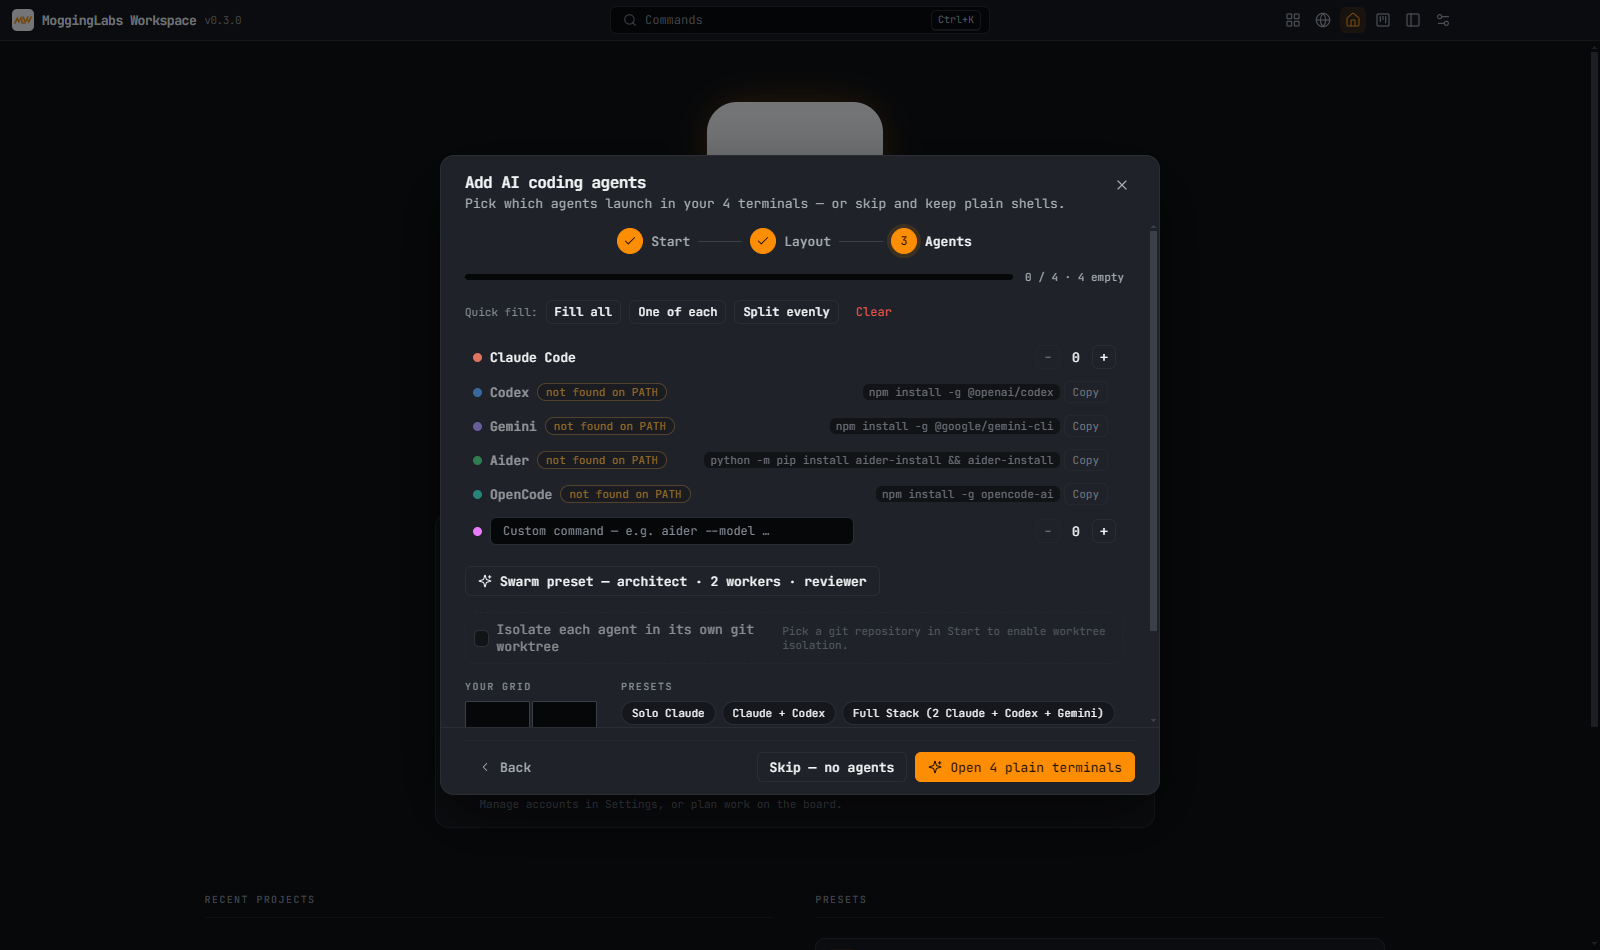
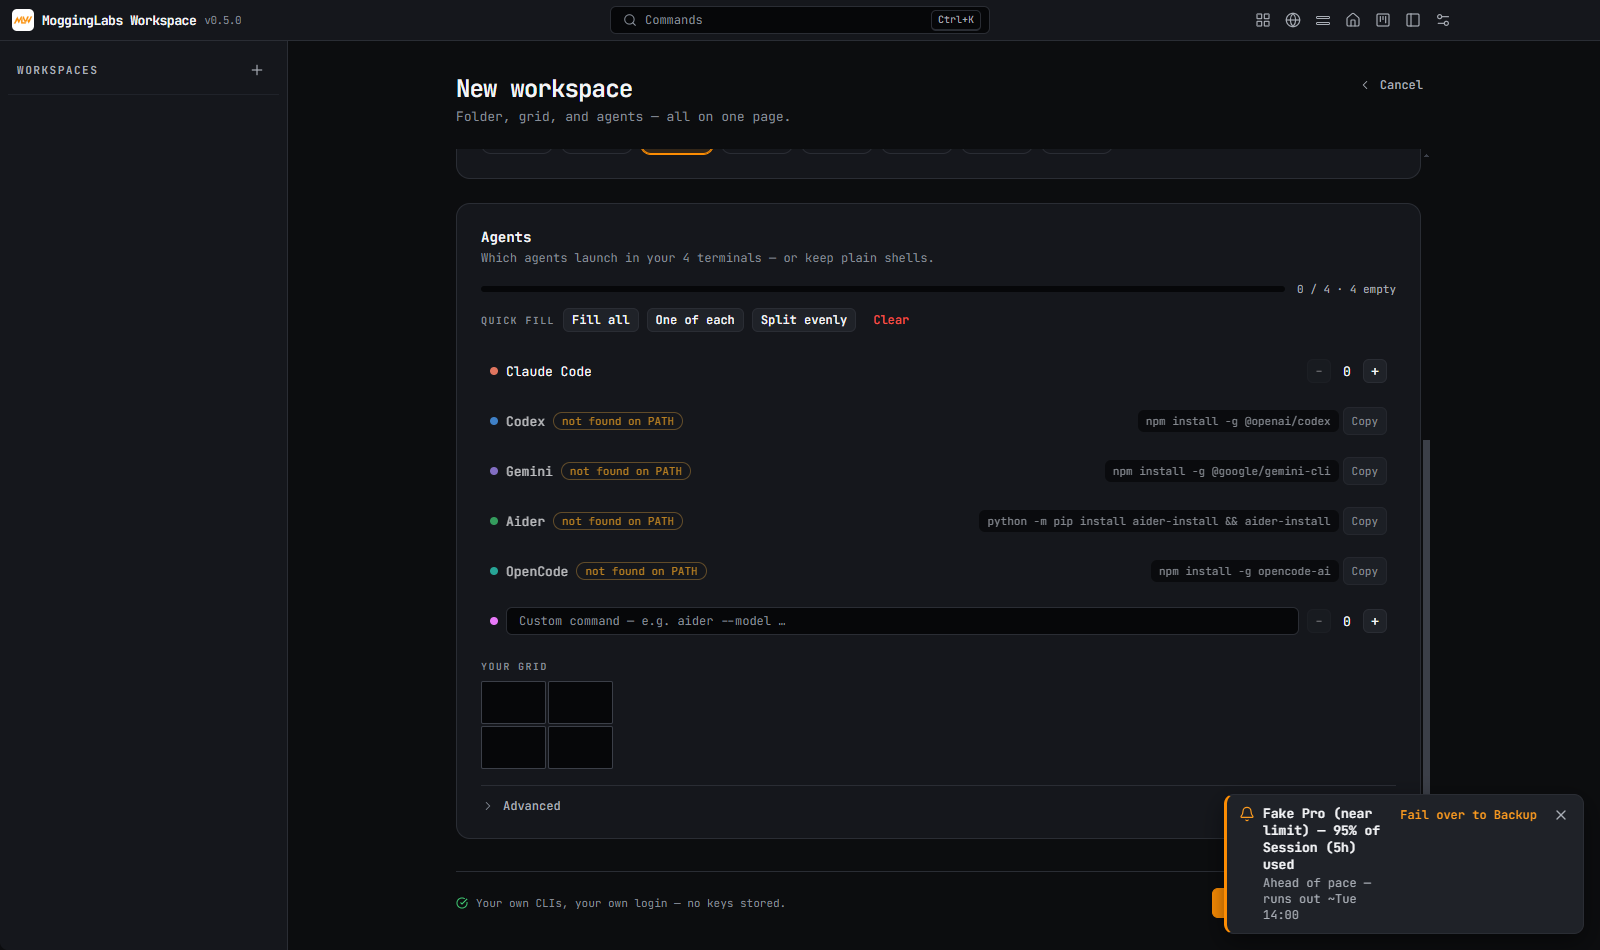
Phase 8.5/02: restage the wizard gallery (both themes) — page · agents · advanced
The gallery drove the old stepper by clicking `.wizard-footer .btn--primary`
twice to advance screens. On one page that button LAUNCHES, so it now scrolls
the card column and expands the disclosures instead. Shot names follow the
surface: wizard-start/layout/agents -> wizard-page/agents/advanced.

Also corrects a receipt: docs/assets/gallery/spacing-audit.md credited the
wizard's footer hairline to `.wizard-footer::before`, which 02 removed — it was
the top half of a DOUBLE divider over `.modal-footer`'s own border, and the
wizard is not a modal any more. `.review-footer` keeps it; 8.5/07 owns that.

Full local sweep on a frozen tree: ALL 53 GATES PASS (MILESTONE and PERCEPTION
included, budgets unchanged; WIZARDUX is gate 53). Per the standing directive,
CI is left for the end of the phase.

typecheck 0 · build ok · boundaries clean · spacing 28 (wizard bucket 0).

diff --git a/docs/assets/gallery/spacing-audit.md b/docs/assets/gallery/spacing-audit.md
@@ -12,7 +12,7 @@ gallery + rail/chrome geometry probes + full 24-gate sweep.
 | 1 | Home | `RECENT PROJECTS` / `PRESETS` titles sat on their lists with no division; 8px gap off-rhythm | **FIXED** — house division on `.home-section > .section-label`; section gap `sp-2 → sp-3` |
 | 2 | Settings | All section headers (`APPEARANCE`, `TERMINAL`, `PROFILES & SSH HOSTS`, `PRIVACY`) lacked the division | **FIXED** — same rule on `.settings-section > .section-label` (content side keeps the section's airier `sp-4`) |
 | 3 | Board | Lane heads (`TO DO` …) sat directly on the card region | **FIXED** — division on `.board-lane-head` (`sp-3` + hairline; lane gap supplies the content side) |
-| 4 | Wizard + Review modals | Scrollable body slid under the footer with nothing marking the fold | **FIXED** — hairline `::before` + `sp-3` on `.wizard-footer` / `.review-footer` |
+| 4 | Wizard + Review modals | Scrollable body slid under the footer with nothing marking the fold | **FIXED** — hairline `::before` + `sp-3` on `.wizard-footer` / `.review-footer`. *(8.5/02: the wizard is no longer a modal and its `::before` was a DOUBLE divider over `.modal-footer`'s own border — the page's footer now carries a single `border-top`. `.review-footer` unchanged; 8.5/07 owns it.)* |
 | 5 | Palette | Input→results seam used a full-strength border — heavier than every other title/list junction | **FIXED** — softened to the division's 55% stop |
 | 6 | Pane context menu | "Copy working directory" and "Launch Claude Code here" wrapped to two lines at `min-width: 200px` | **FIXED** — `.menu { width: max-content; max-width: 320px }` + `white-space: nowrap` items (all menus) |
 | 7 | Rail | Tab list gap was 3px (off-ramp) | **FIXED** — `var(--sp-1)`; the rail is a nav list, not dense chrome |